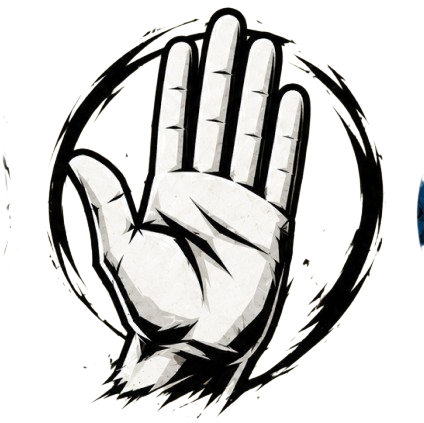
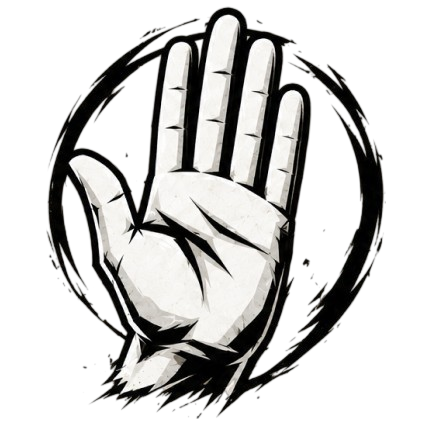
fix paper, display user choice, add lock in button

diff --git a/rps/src/gameplay.jsx b/rps/src/gameplay.jsx
@@ -1,4 +1,4 @@
-
+import React, {useState} from 'react';
 import titleCard from "./assets/title-card.png"
 import rock from "./assets/rock-Photoroom.png";
 import scissors from "./assets/scissors-Photoroom.png";
@@ -9,6 +9,7 @@ import './gameplay.css'
 
 
 function Gameplay() {
+    const [userChoice, setUserChoice] = useState(paper)
     
     return (
         <div>
@@ -20,7 +21,7 @@ function Gameplay() {
                         username='steve'
                     ></Profile>
                     <div className='selectionDisplay'>
-                        <img src={rock} className='userChoice'/>
+                        <img src={userChoice} className='userPick'/>
                     </div>
                 </div>
                 <div className='rightContainer'>
@@ -31,20 +32,23 @@ function Gameplay() {
                         ></Profile>
                     </div>
                     <div className='selectionDisplay'>
-                        <img src={scissors} className='userChoice'/>
+                        <img src={scissors} className='userPick'/>
                     </div>
                 </div>
                 <div className='choiceOverlay'>
                     <div >
-                    <button  className='overlayBtn' onClick={() => console.log("Rock Clicked")}>
+                    <button  className='overlayBtn' onClick={() => setUserChoice(rock)}>
                         <img src={rock} alt="rock"/>
                     </button>
-                    <button className='overlayBtn' onClick={() => console.log("Paper Clicked")}>
+                    <button className='overlayBtn' onClick={() => setUserChoice(paper)}>
                         <img src={paper} alt="paper"/>
                     </button>
-                    <button className='overlayBtn' onClick={() => console.log("Scissors Clicked")}>
+                    <button className='overlayBtn' onClick={() => setUserChoice(scissors)}>
                         <img src={scissors} alt="scissors"/>
                     </button>
+                    </div>
+                    <div className='lockBtn'>
+                        <button>Lock In</button>
                     </div>
                 </div>
             </div>

diff --git a/rps/index.html b/rps/index.html
@@ -2,9 +2,9 @@
 <html lang="en">
   <head>
     <meta charset="UTF-8" />
-    <link rel="icon" type="image/svg+xml" href="/favicon.svg" />
+<link rel="icon" type="image/png" href="./src/assets/scissors-Photoroom.png" />
     <meta name="viewport" content="width=device-width, initial-scale=1.0" />
-    <title>my-react-app</title>
+    <title>RPS Online</title>
   </head>
   <body>
     <div id="root"></div>

diff --git a/rps/src/gameplay.css b/rps/src/gameplay.css
@@ -40,7 +40,7 @@
     height: 90%
 }
 
-.userChoice {
+.userPick {
     width: 70%;
 }
 